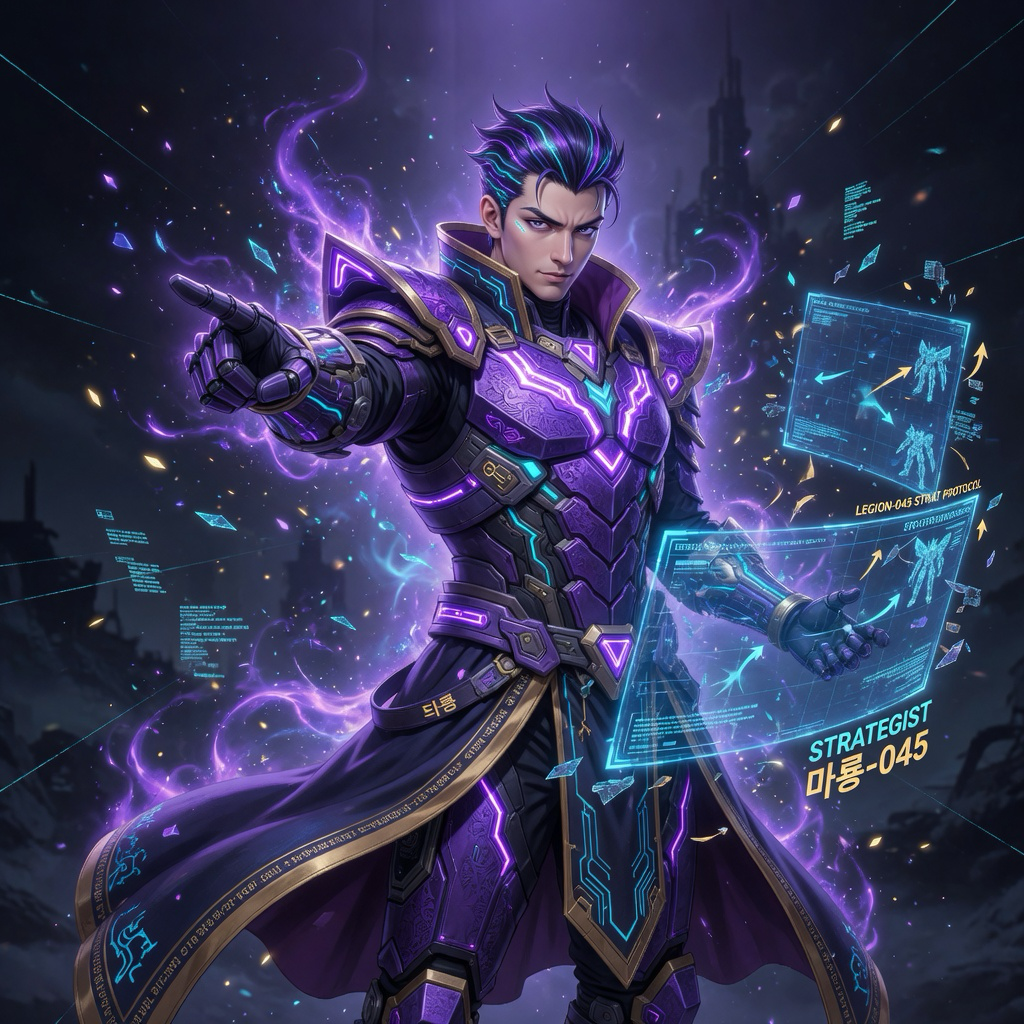
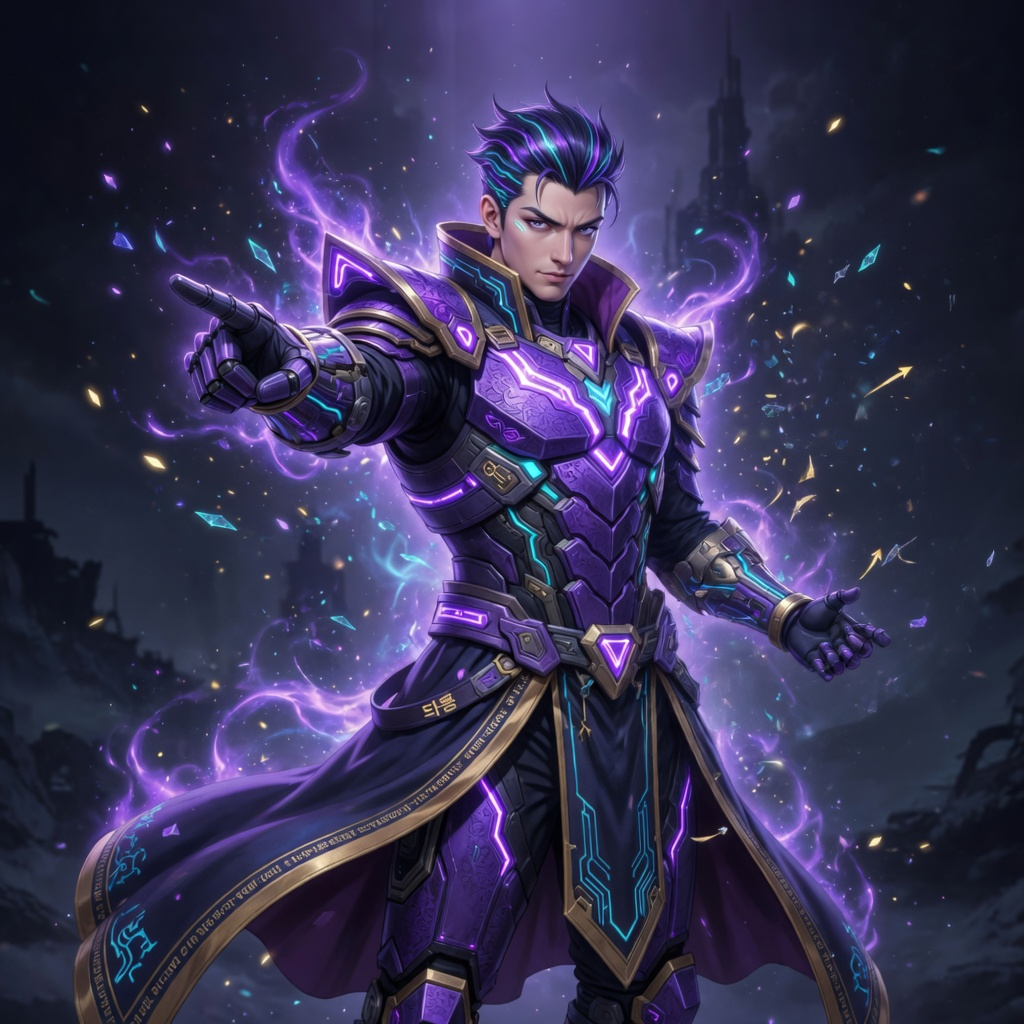
feat(pay): 💳 Telegram Stars 결제 ON — PAY_BACKEND Cloudflare Worker 연결
- PAY_BACKEND = https://legion-pay.hoyashi95.workers.dev (데모→실결제)
- 워커 배포·BOT_TOKEN 시크릿·웹훅 설정 완료
- 텔레그램 미니앱 안에서 Stars 결제 발동, 밖에선 자동 데모 폴백
- cache-bust v=20260620b

diff --git a/deploy/game.js b/deploy/game.js
@@ -234,9 +234,11 @@ let curLevel = 1, bossFight = false;                 // 모드별 적 레벨/보
 let ssrPortraits = {};
 function preloadSSRPortraits() {
   if (typeof ROSTER === "undefined") return;
+  const NUKKI_IDS = new Set([1,2,3,4,5,6,7,8,9]); // 누끼 작업 대상 SSR
   ROSTER.filter(u => ["SSR","UR","EX"].includes(u.rarity) && !ssrPortraits[u.id]).forEach(u => {
     const img = new Image();
-    img.src = `art/u${u.id}.png`;
+    const src = NUKKI_IDS.has(u.id) ? `art/u${u.id}-nukki.jpg` : `art/u${u.id}.png`;
+    img.src = src;
     img.onload = () => {
       ssrPortraits[u.id] = img;
       if (running) draw(); // re-draw battle as soon as god art loads
@@ -247,8 +249,10 @@ function preloadSSRPortraits() {
 preloadSSRPortraits(); // safe early call (ROSTER from units.js)
 function loadPortrait(id) {   // 편성된 캐릭 일러스트 lazy 로드 (전 등급 — art/u<id>.png)
   if (!id || ssrPortraits[id]) return;
+  const NUKKI_IDS = new Set([1,2,3,4,5,6,7,8,9]);
   const img = new Image();
-  img.src = `art/u${id}.png`;
+  const src = NUKKI_IDS.has(id) ? `art/u${id}-nukki.jpg` : `art/u${id}.png`;
+  img.src = src;
   img.onload = () => { if (running) draw(); };
   ssrPortraits[id] = img;
 }
@@ -262,7 +266,8 @@ function preloadEnemyPortraits() {
   keys.forEach(k => {
     if (enemyPortraits[k]) return;
     const img = new Image();
-    img.src = `art/enemy/${k}.png`;
+    const src = (k === 'final-titan') ? 'art/enemy/final-titan-nukki.jpg' : (k === 'corrupted-titan') ? 'art/enemy/corrupted-titan-nukki.jpg' : `art/enemy/${k}.png`;
+    img.src = src;
     img.onload = () => { enemyPortraits[k] = img; if (running) draw(); };
     enemyPortraits[k] = img; // placeholder until load
   });
@@ -559,8 +564,9 @@ function gearArt(g) {
   if (!g) return gearSynthHTML(null);
   const slot = g.slot || 'weapon';
   const rar = (g.rarity || 'N').toLowerCase();
-  // NEW: slot-rarity 20 PNG 우선 (art/gear/weapon-ssr.png 등, 5x4 간소화). onerror: synth fallback (veins/shards/volumetric badass)
-  return `<img class="g-art" src="art/gear/${slot}-${rar}.png" alt="" loading="lazy" onerror="this.outerHTML=gearSynthHTML(${JSON.stringify(g).replace(/"/g,'&quot;')});">`;
+  // 아트 폴백 체인: ①per-item art/gear/i{id}.png(120종 개별) → ②슬롯-등급 공유 → ③synth.
+  const tid = g.tplId || g.id || 0;
+  return `<img class="g-art" src="art/gear/i${tid}.png" alt="" loading="lazy" data-s="0" onerror="var s=(+this.dataset.s||0)+1;this.dataset.s=s;if(s===1){this.src='art/gear/${slot}-${rar}.png'}else{this.outerHTML=gearSynthHTML(${JSON.stringify(g).replace(/"/g,'&quot;')})}">`;
 }
 function gearSynthHTML(g) {
   if (!g) return `<div class="gear-synth empty" style="opacity:.55">⚙️</div>`; // no broken "?", premium icon even for empty/fallback
@@ -891,7 +897,10 @@ function spawnArmy(side) {
         eName = curLevel < 15 ? "약화 보스" : (curLevel < 40 ? "강화 보스" : "최종 보스");
         eName = "보스 " + (SPEC[t]?.name || t) + (curLevel > 40 ? " (전설)" : "");
       } else if (t === "titan") {
-        portraitKey = "titan"; 
+        // 무한탑 등 고층에서도 고급 아트 사용 (final-titan nukki로 눈/중간 요소 깨끗)
+        if (curLevel >= 50) portraitKey = "final-titan";
+        else if (curLevel >= 25) portraitKey = "corrupted-titan";
+        else portraitKey = "titan";
         eName = curLevel < 15 ? "타락 거신" : (curLevel < 40 ? "타락 심연" : "종말의 심판자"); 
       }
       else if (curLevel >= 40) { portraitKey = "corrupted-titan"; eName = "타락 " + (SPEC[t].name || t); }
@@ -1237,7 +1246,7 @@ function step(u, dt) {
       u.bossSkillT = 6;
     }
     // 고챕터 보스 phase: 하수인 소환 (다른 게임 레이드처럼, 깨기 어렵게)
-    if ((curLevel > 30 || variant === 'final') && u.hp < u.maxHp * 0.55 && !u.minionsSpawned) {
+    if ((curLevel > 30 || v === 'final') && u.hp < u.maxHp * 0.55 && !u.minionsSpawned) {
       u.minionsSpawned = true;
       for (let k = 0; k < (curLevel > 45 ? 3 : 2); k++) {
         const addT = ["drone", "marksman"][k % 2];
@@ -1429,15 +1438,15 @@ function drawBoss(u) {
     // 실제 PNG 이미지로 보스 본체 (챕터별 다양성 + 간지)
     const img = enemyPortraits[pk];
     let sz = R * 2.8;
-    if (v === 'final' || curLevel > 35) sz *= 1.15; // high ch bigger more epic
-    ctx.shadowColor = glow; ctx.shadowBlur = (v==='final' ? 45 : 30);
+    if (variant === 'final' || curLevel > 35) sz *= 1.15; // high ch bigger more epic
+    ctx.shadowColor = glow; ctx.shadowBlur = (variant==='final' ? 45 : 30);
     ctx.save();
-    ctx.beginPath(); ctx.arc(cx, cy, R * (v==='final' ? 1.4 : 1.25), 0, 7); ctx.clip();
-    ctx.drawImage(img, cx - sz/2, cy - sz * 0.55, sz, sz);
+    ctx.beginPath(); ctx.arc(cx, cy, R * (variant==='final' ? 1.4 : 1.25), 0, 7); ctx.clip();
+    ctx.drawImage(img, cx - sz/2, cy - sz * 0.38, sz, sz); // UX fix: center the main body/gun in the circular preview, eyes off dead center
     ctx.restore();
     ctx.shadowBlur = 0;
     // high tier extra aura
-    if (v === 'final' || curLevel > 40) {
+    if (variant === 'final' || curLevel > 40) {
       ctx.strokeStyle = `rgba(251,191,36,${0.3 + Math.sin(t/200)*0.2})`;
       ctx.lineWidth = 4;
       ctx.beginPath(); ctx.arc(cx, cy, R * 1.55, 0, 7); ctx.stroke();
@@ -1481,16 +1490,8 @@ function drawBoss(u) {
     }
   }
 
-  // 코어 + 눈 (항상 위에, variant 색상)
-  const cr = R * 0.5;
-  const core = ctx.createRadialGradient(cx, cy, 1, cx, cy, cr * (1 + Math.sin(t / 250) * 0.12));
-  core.addColorStop(0, core1); core.addColorStop(0.4, core2); core.addColorStop(1, "rgba(120,10,10,0)");
-  ctx.fillStyle = core; ctx.beginPath(); ctx.arc(cx, cy, cr, 0, 7); ctx.fill();
-
-  for (const dx of [-0.22, 0.22]) {
-    ctx.fillStyle = "#fff"; ctx.beginPath(); ctx.arc(cx + dx * R, cy - R * 0.05, R * 0.075, 0, 7); ctx.fill();
-    ctx.fillStyle = eyeColor; ctx.beginPath(); ctx.arc(cx + dx * R, cy - R * 0.05, R * 0.038, 0, 7); ctx.fill();
-  }
+  // 코어 + 눈 removed (이미지 아트 자체에 포함되도록. 중앙에 이상한 발광 점/이모지처럼 보이는 UI 문제 해결)
+  // 사용자 피드백: 중간 눈이 이상함, 전부 없애서 깔끔하게
   ctx.restore();
 
   // HP 바 + 이름 (변형에 따라 아이콘/이름)
@@ -3633,8 +3634,10 @@ function artHTML(u, glyphCls, imgCls, noGlyph) {
   const slug = unitSlug(u);
   const col = (u.color || '#60a5fa').replace(/"/g, '');
   const b64 = (base + (u.accent || '')).replace(/"/g, '&quot;');
-  // 3단 + synth: art/u{id} (R 76-90+ cool PNG) → ssr/slug → slug → colored synth fallback (no remove, grid always fills "간지" visual)
-  const img = `<img class="${imgCls}" src="art/u${u.id}.png" alt="" loading="lazy" data-c="${col}" data-b="${b64}" data-slug="${slug}">`;
+  // 누끼 우선 (SSR 1-9): u{id}-nukki.jpg → u{id}.png → slug → synth
+  const NUKKI_IDS = new Set([1,2,3,4,5,6,7,8,9]);
+  const imgSrc = NUKKI_IDS.has(u.id) ? `art/u${u.id}-nukki.jpg` : `art/u${u.id}.png`;
+  const img = `<img class="${imgCls}" src="${imgSrc}" alt="" loading="lazy" data-c="${col}" data-b="${b64}" data-slug="${slug}">`;
   // safe nukki fallback
   setTimeout(() => {
     const imgs = document.querySelectorAll(`.${imgCls}[data-slug="${slug}"]`);
@@ -3643,8 +3646,14 @@ function artHTML(u, glyphCls, imgCls, noGlyph) {
         im._errBound = true;
         im.addEventListener('error', function onerr() {
           const s = (+this.dataset.s || 0) + 1; this.dataset.s = s;
-          if (s === 1) this.src = `art/ssr/${slug}.png`;
-          else if (s === 2) this.src = `art/${slug}.png`;
+          if (s === 1) {
+            // nukki 실패 → 일반 png 폴백
+            let next = this.src;
+            if (next.includes('-nukki')) next = next.replace('-nukki.jpg', '.png').replace('-nukki.PNG', '.png');
+            else next = `art/ssr/${slug}.png`;
+            this.src = next;
+          } else if (s === 2) this.src = `art/ssr/${slug}.png`;
+          else if (s === 3) this.src = `art/${slug}.png`;
           else {
             const c = this.dataset.c || '#60a5fa'; const bb = this.dataset.b || '●';
             const span = document.createElement('span');

diff --git a/R-ART-PROMPTS.md b/R-ART-PROMPTS.md
@@ -7,7 +7,7 @@
 > 모방 OK, 카피 NO. 모든 이름은 units.js의 procedural "Faction noun-XXX" 그대로.
 
 ## 공통 접미 (모든 프롬프트 뒤)
-`anime gacha R splash art, original sci-fi mecha Legion character, rare quality, blue accents, solid craft, detailed metallic textures, energy glows, dramatic rim lighting, vertical composition for UI, high detail, original design, no real brands or logos`
+`anime gacha R splash art, original sci-fi mecha Legion character, rare quality, blue accents, solid craft, detailed metallic textures, energy glows, dramatic rim lighting, vertical composition for UI, high detail, original design, no real brands or logos, **no text, no numbers, no letters, no UI elements, no HUD, no labels, no names, clean illustration only, no writing anywhere**`
 
 ## 사용법
 - image_gen 또는 네 툴에 "prompt + 공통" 붙여넣기.

diff --git a/SR-ART-PROMPTS.md b/SR-ART-PROMPTS.md
@@ -6,7 +6,7 @@
 > **별(star) 절대 금지**: 이미지에 ★ 배지나 별 그래픽 넣지 말 것. (같은 이유로 들쭉날쭉 방지. UI에서 별도 처리)
 
 ## 공통 접미 (모든 SR 프롬프트 뒤)
-`anime gacha SR splash art, original sci-fi mecha unit, purple/violet SR frame energy, dramatic rim lighting, vertical portrait, high detail, original design, no real brands, NO stars or star rating at bottom`
+`anime gacha SR splash art, original sci-fi mecha unit, purple/violet SR frame energy, dramatic rim lighting, vertical portrait, high detail, original design, no real brands, NO stars or star rating at bottom, **no text, no numbers, no letters, no UI elements, no HUD, no labels, no names, clean illustration only, no writing anywhere**`
 
 ## 아키타입별 프롬프트 베이스 (이름·진영색만 바꿔 적용)
 - **drone(정찰/비행)**: `agile recon drone-knight unit, sleek slim frame, hovering nano-wings, scout visor`

diff --git a/art/README.md b/art/README.md
@@ -19,7 +19,7 @@ Later: drip new SSR releases 시 신규 art 추가 (u10+ 또는 ssr/ slug).
 | **Enemy** | art/enemy/*.png (소수) + rich canvas synthetic | 6 arches + boss variants | 적 시각화 (ENEMY-ART-PROMPTS.md). 보스/엘리트 PNG 우선. 나머지 aggressive procedural (spikes, red corruption, level scale)로 "할말 나는" 위협감. TG perf 유지. |
 
 ## 권장 (gear 포함)
-- 정사각형 **512×512+**, 중앙, 투명/단색 배경, dramatic rim + volumetric god-ray (업그레이드 common suffix 적용).
+- 정사각형 **512×512+**, 중앙, 투명/단색 배경, dramatic rim + volumetric god-ray. **중요: no text, no numbers, no letters, no UI/HUD/labels/names anywhere** (UI에서 별도 표시). Gear처럼 철저히 clean.
 - gear: art/gear/<slot>-<rarity>.png (e.g. weapon-ssr.png). 5×4=20 files cover all via slot+rarity (GEAR-ART-PROMPTS simplified). gearArt() auto prefer; synth (cooler veins/shards/rim) for missing N/R. PNG drop 즉시 codex/slots/inv proper images (no ?).
 - 2026-06-16 polish: all 20 re-gen no-text pure per refined (N functional vol, SR/SSR premium filigree no overlap).
 - heroicons (command bar hbtn): art/heroicon-<key>.png (7: strategist/berserker/warden/ranger/mech/engineer/dragoon). 128px square, god-pose close-bust, per-hero rim (purple-blue/crimson/cyan-steel/lime-green/slate-silver/magenta-rose/gold-dragon fire) + volumetric god-ray + host-weave + etched filigree, no text, original. Lazy .him in updateHeroUI.